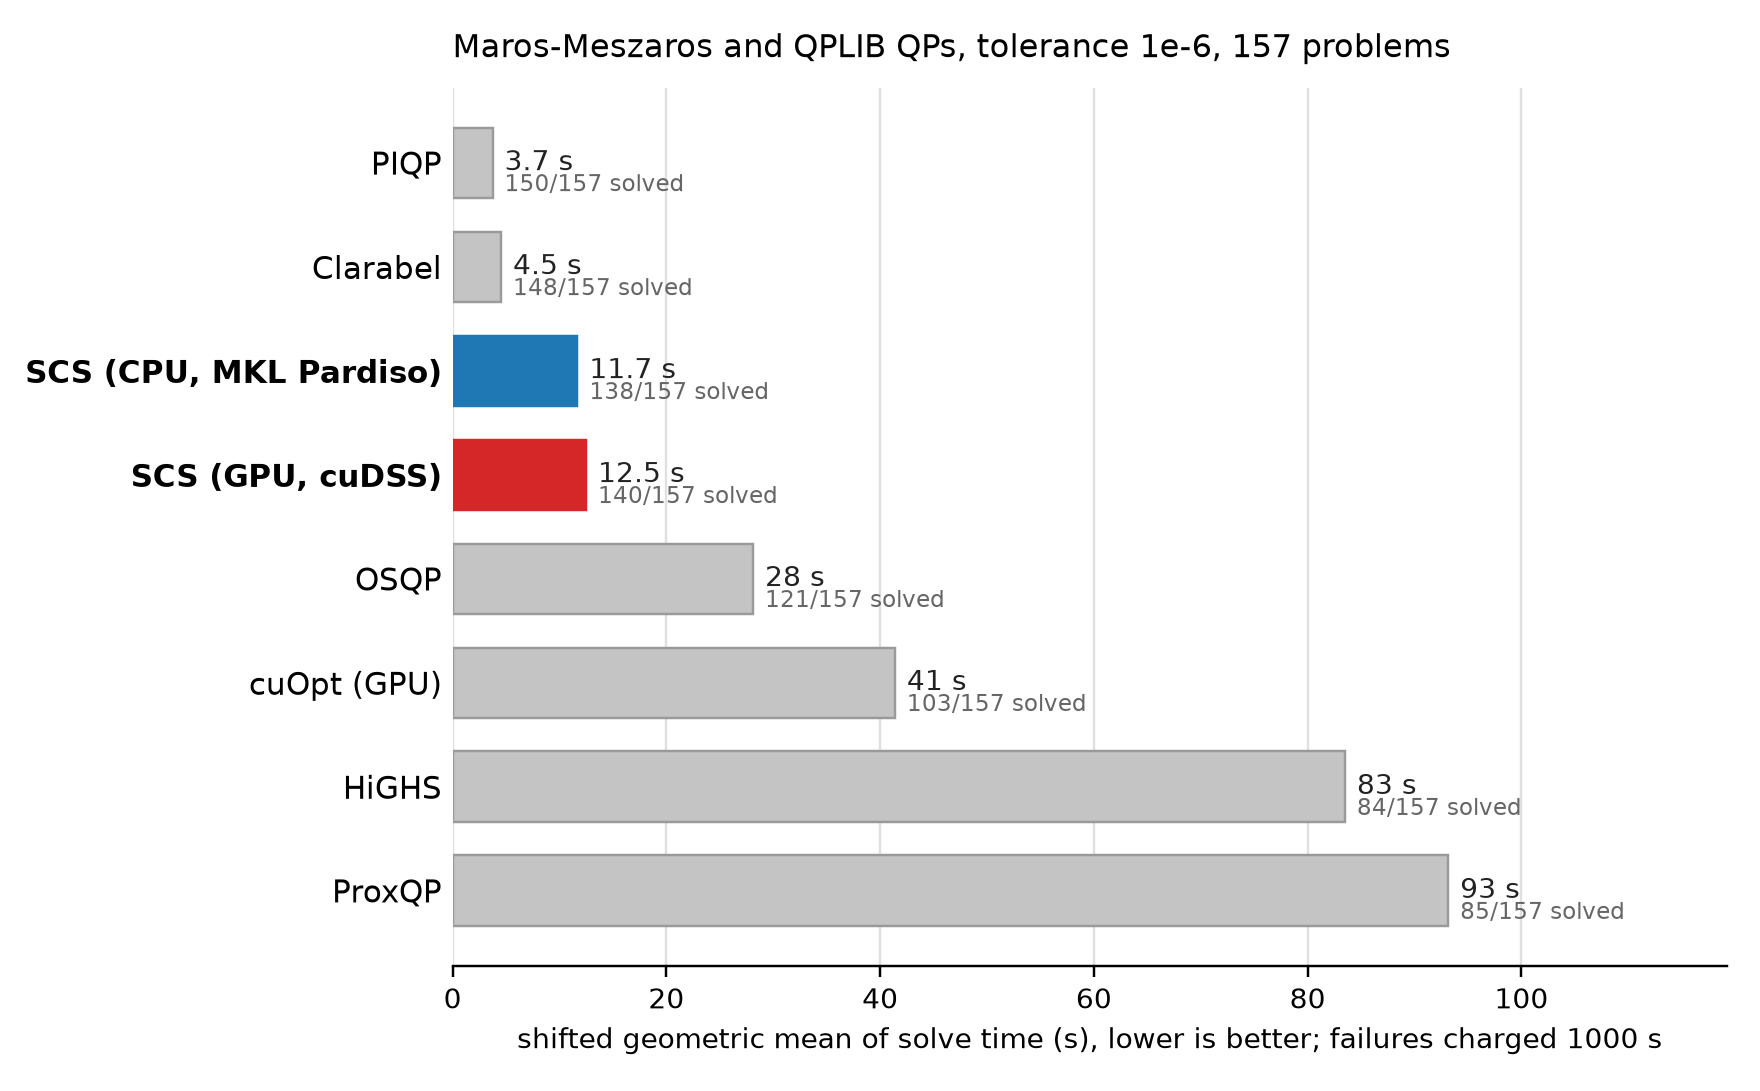
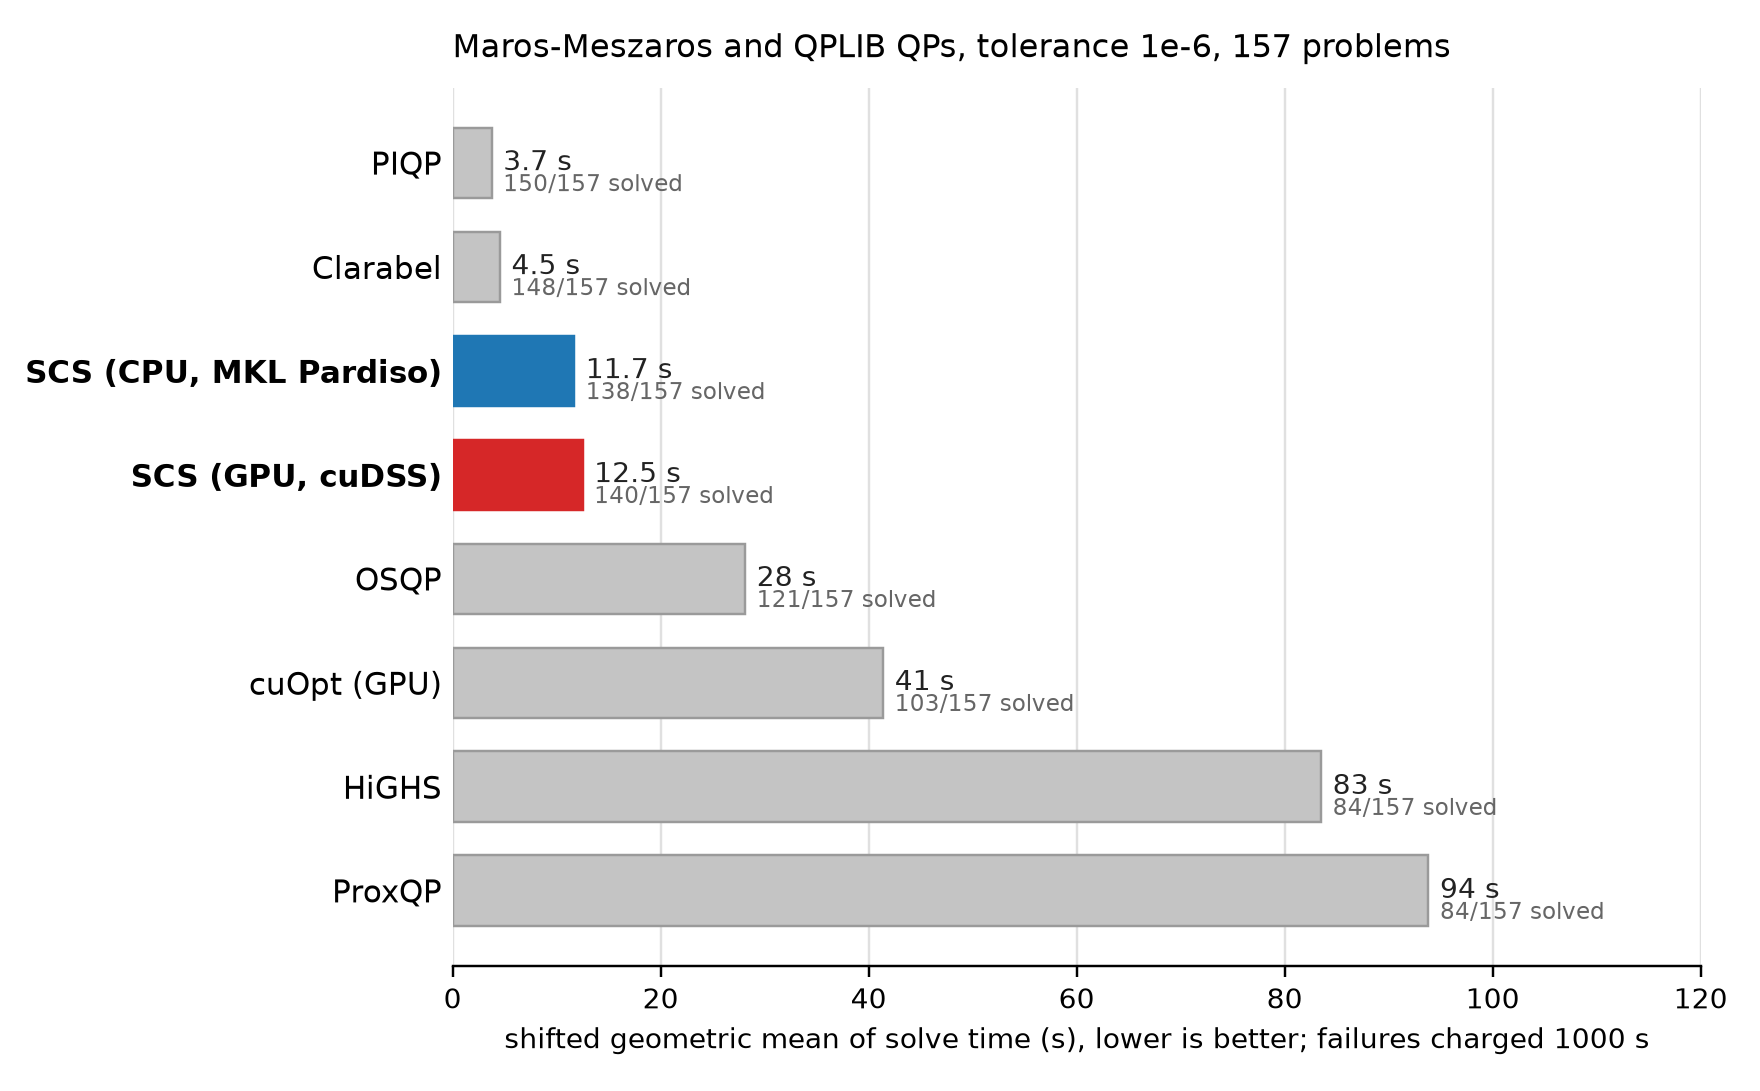
docs: uniform time-limit rule with 60 s grace; Clarabel SDP exclusion stated as out-of-memory; SCS note trimmed; cuOpt residuals in scientific notation

diff --git a/docs/src/benchmarks/index.rst b/docs/src/benchmarks/index.rst
@@ -157,7 +157,11 @@ optimal.
 
 **Timing.** The reported time is wall-clock time for the solver call, including
 any presolve, factorization and GPU transfer, but excluding reading the problem
-from disk. QP and LP solves were limited to 300 s and SDP solves to 900 s. A
+from disk. QP and LP solves were limited to 300 s and SDP solves to 900 s, passed to each
+solver through its own time-limit setting; since wall time also includes
+setup and reading, a solve counts only if it finished within the limit plus a
+60 s grace, the same for every solver, and the harness killed the worker at
+that point regardless of what the solver reported. A
 performance profile shows, for each solver, the fraction of problems solved
 within a factor :math:`\tau` of the fastest solver on that problem; failures
 never count as solved. The shifted geometric mean uses a shift of 10 s and
@@ -182,9 +186,9 @@ LP relaxations up to 20 MB; the Mittelmann LP set is its own section. SDP: SDPLI
 Mittelmann SDP set. "Largest quartile" means the quarter of each family with
 the most nonzeros in the constraint matrix (plus the Hessian for QPs).
 
-**Exclusions.** Clarabel cannot form the dense scaling block for PSD cones of
-order 500 or more; those instances are counted as failures for it. SDPA
-ignores time limits and was allowed to run to completion. The SDPLIB archive's
+**Exclusions.** Clarabel ran out of memory (64 GB) on the SDPLIB instances
+with PSD blocks of order 500 or more; those instances are counted as failures
+for it. SDPA does not take a time limit but never needed one. The SDPLIB archive's
 ``maxG55`` and ``maxG60`` files are corrupt and were dropped for all solvers.
 cuOpt's QP path is an interior-point method whose factorization failed with a
 numerical error on a subset of the Maros-Meszaros problems; those count as
@@ -305,8 +309,8 @@ first-order solver by a wide margin.
      - 106.3
      - 10
      - 439.7
-     - 85
-     - 93.2
+     - 84
+     - 93.8
      - 12
      - 375.1
 
@@ -756,7 +760,6 @@ often at :math:`10^{-5}` (219 of 344 against 133), though it remains slow.
      - 9
      - 804
 
-
 Notes on individual solvers
 ---------------------------
 
@@ -765,17 +768,12 @@ Notes on individual solvers
   (``QGROW7`` and ``QGROW22`` from Maros-Meszaros, and the MIPLIB relaxation
   ``neos-4413714-turia``): on these badly scaled problems the diagonal
   rescaling drives the internal scale to its floor, and the scaled residuals
-  SCS monitors no longer track the unscaled ones. The rest (``PRIMALC8``,
-  ``QSCFXM2``, ``greenbea``, the ``pilot`` family) are marginal, with
-  residuals between one and four times the :math:`10^{-3}` cut. The same
-  check promotes SCS solves that hit the time limit with residuals inside ten
-  times the tolerance; those are counted as solved at the time limit, which
-  is what makes the SCS curves on the SDP profile reach the right edge.
+  SCS monitors no longer track the unscaled ones.
 * **cuOpt.** cuOpt's LP path is PDLP with an L2-relative stopping rule, and on
   problems with many variable bounds (Kennington, MIPLIB) its returned duals
   often have large infinity-norm stationarity residuals even though cuOpt
   reports the solve as optimal, and even though its own reported absolute
-  dual residual is in the tens or hundreds. Under the uniform check used here
+  dual residual is between :math:`3\times10^{1}` and :math:`3\times10^{2}`. Under the uniform check used here
   those solves count as failures; by its own status cuOpt reports 233 of the
   344 LPs optimal at :math:`10^{-4}`, and 36 of the 37 Mittelmann instances,
   of which only 7 pass the check. Its QP path is a barrier method
@@ -788,7 +786,8 @@ Notes on individual solvers
   QPs; its LP simplex is the fastest LP code in the comparison.
 * **ProxQP.** Run with its default dense/sparse backend selection; it times
   out on many of the larger problems.
-* **Clarabel.** Cannot attempt PSD cones of order 500 or more (it forms a
-  dense scaling block); those instances are counted as failures.
-* **SDPA and CVXOPT.** Interior-point SDP solvers; SDPA has no time limit and
-  ran to completion on every instance.
+* **Clarabel.** Ran out of memory (64 GB) on ``equalG11``, which has a PSD
+  block of order 801, so the other SDPLIB instances with PSD blocks of order
+  500 or more were not attempted; all of them are counted as failures for it.
+* **SDPA and CVXOPT.** Interior-point SDP solvers. SDPA does not take a time
+  limit; its longest solve was 154 s, well inside the 900 s limit.
